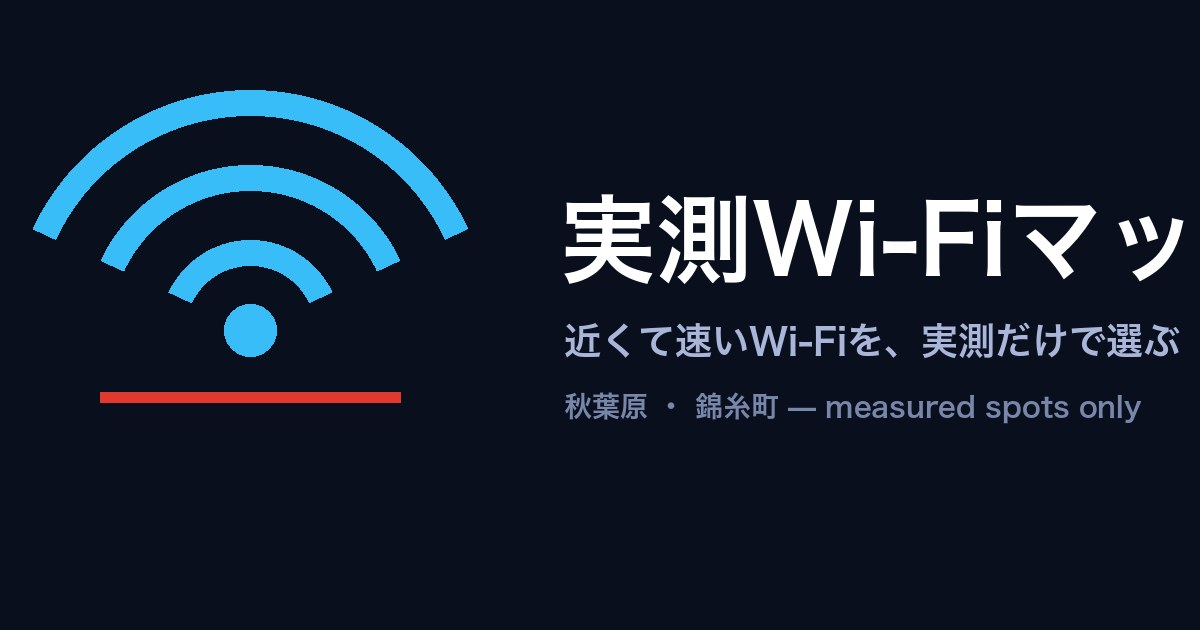
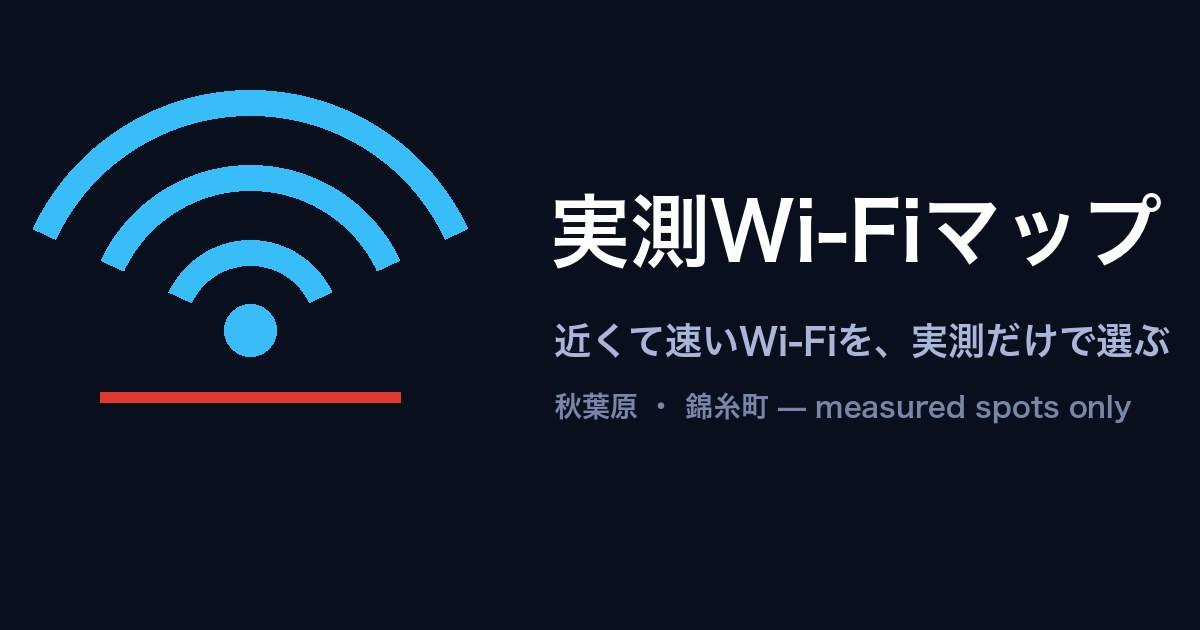
Fix wifi-map OG title clipping (auto-fit)

Changed region(s): [[0.4625, 0.3016, 0.9867, 0.4524], [0.4625, 0.5127, 0.9867, 0.573], [0.4625, 0.6032, 0.9558, 0.6635]]

diff --git a/wifi-map/make_og.py b/wifi-map/make_og.py
@@ -35,13 +35,19 @@ d.ellipse([cx - 26, cy - 26, cx + 26, cy + 26], fill=ACCENT)
 # Accent underline
 d.rectangle([cx - 150, cy + 62, cx + 150, cy + 72], fill=(226, 57, 46))
 
-# Title / subtitle, right side
-f_title = font(96)
-d.text((560, 190), "実測Wi-Fiマップ", font=f_title, fill=(255, 255, 255))
+# Title / subtitle, right side (auto-fit so the title never clips)
+TITLE = "実測Wi-Fiマップ"
+size = 96
+while size > 40:
+    f_title = font(size)
+    if d.textlength(TITLE, font=f_title) <= W - 550 - 36:
+        break
+    size -= 4
+d.text((550, 190), TITLE, font=f_title, fill=(255, 255, 255))
 f_sub = font(37)
-d.text((564, 322), "近くて速いWi-Fiを、実測だけで選ぶ", font=f_sub, fill=(169, 182, 218))
+d.text((554, 322), "近くて速いWi-Fiを、実測だけで選ぶ", font=f_sub, fill=(169, 182, 218))
 f_foot = font(28)
-d.text((564, 392), "秋葉原 ・ 錦糸町 — measured spots only", font=f_foot, fill=(120, 134, 170))
+d.text((554, 392), "秋葉原 ・ 錦糸町 — measured spots only", font=f_foot, fill=(120, 134, 170))
 
 img.save(os.path.join(BASE, "og.jpg"), quality=88)
 print("wrote", os.path.join(BASE, "og.jpg"), img.size)
